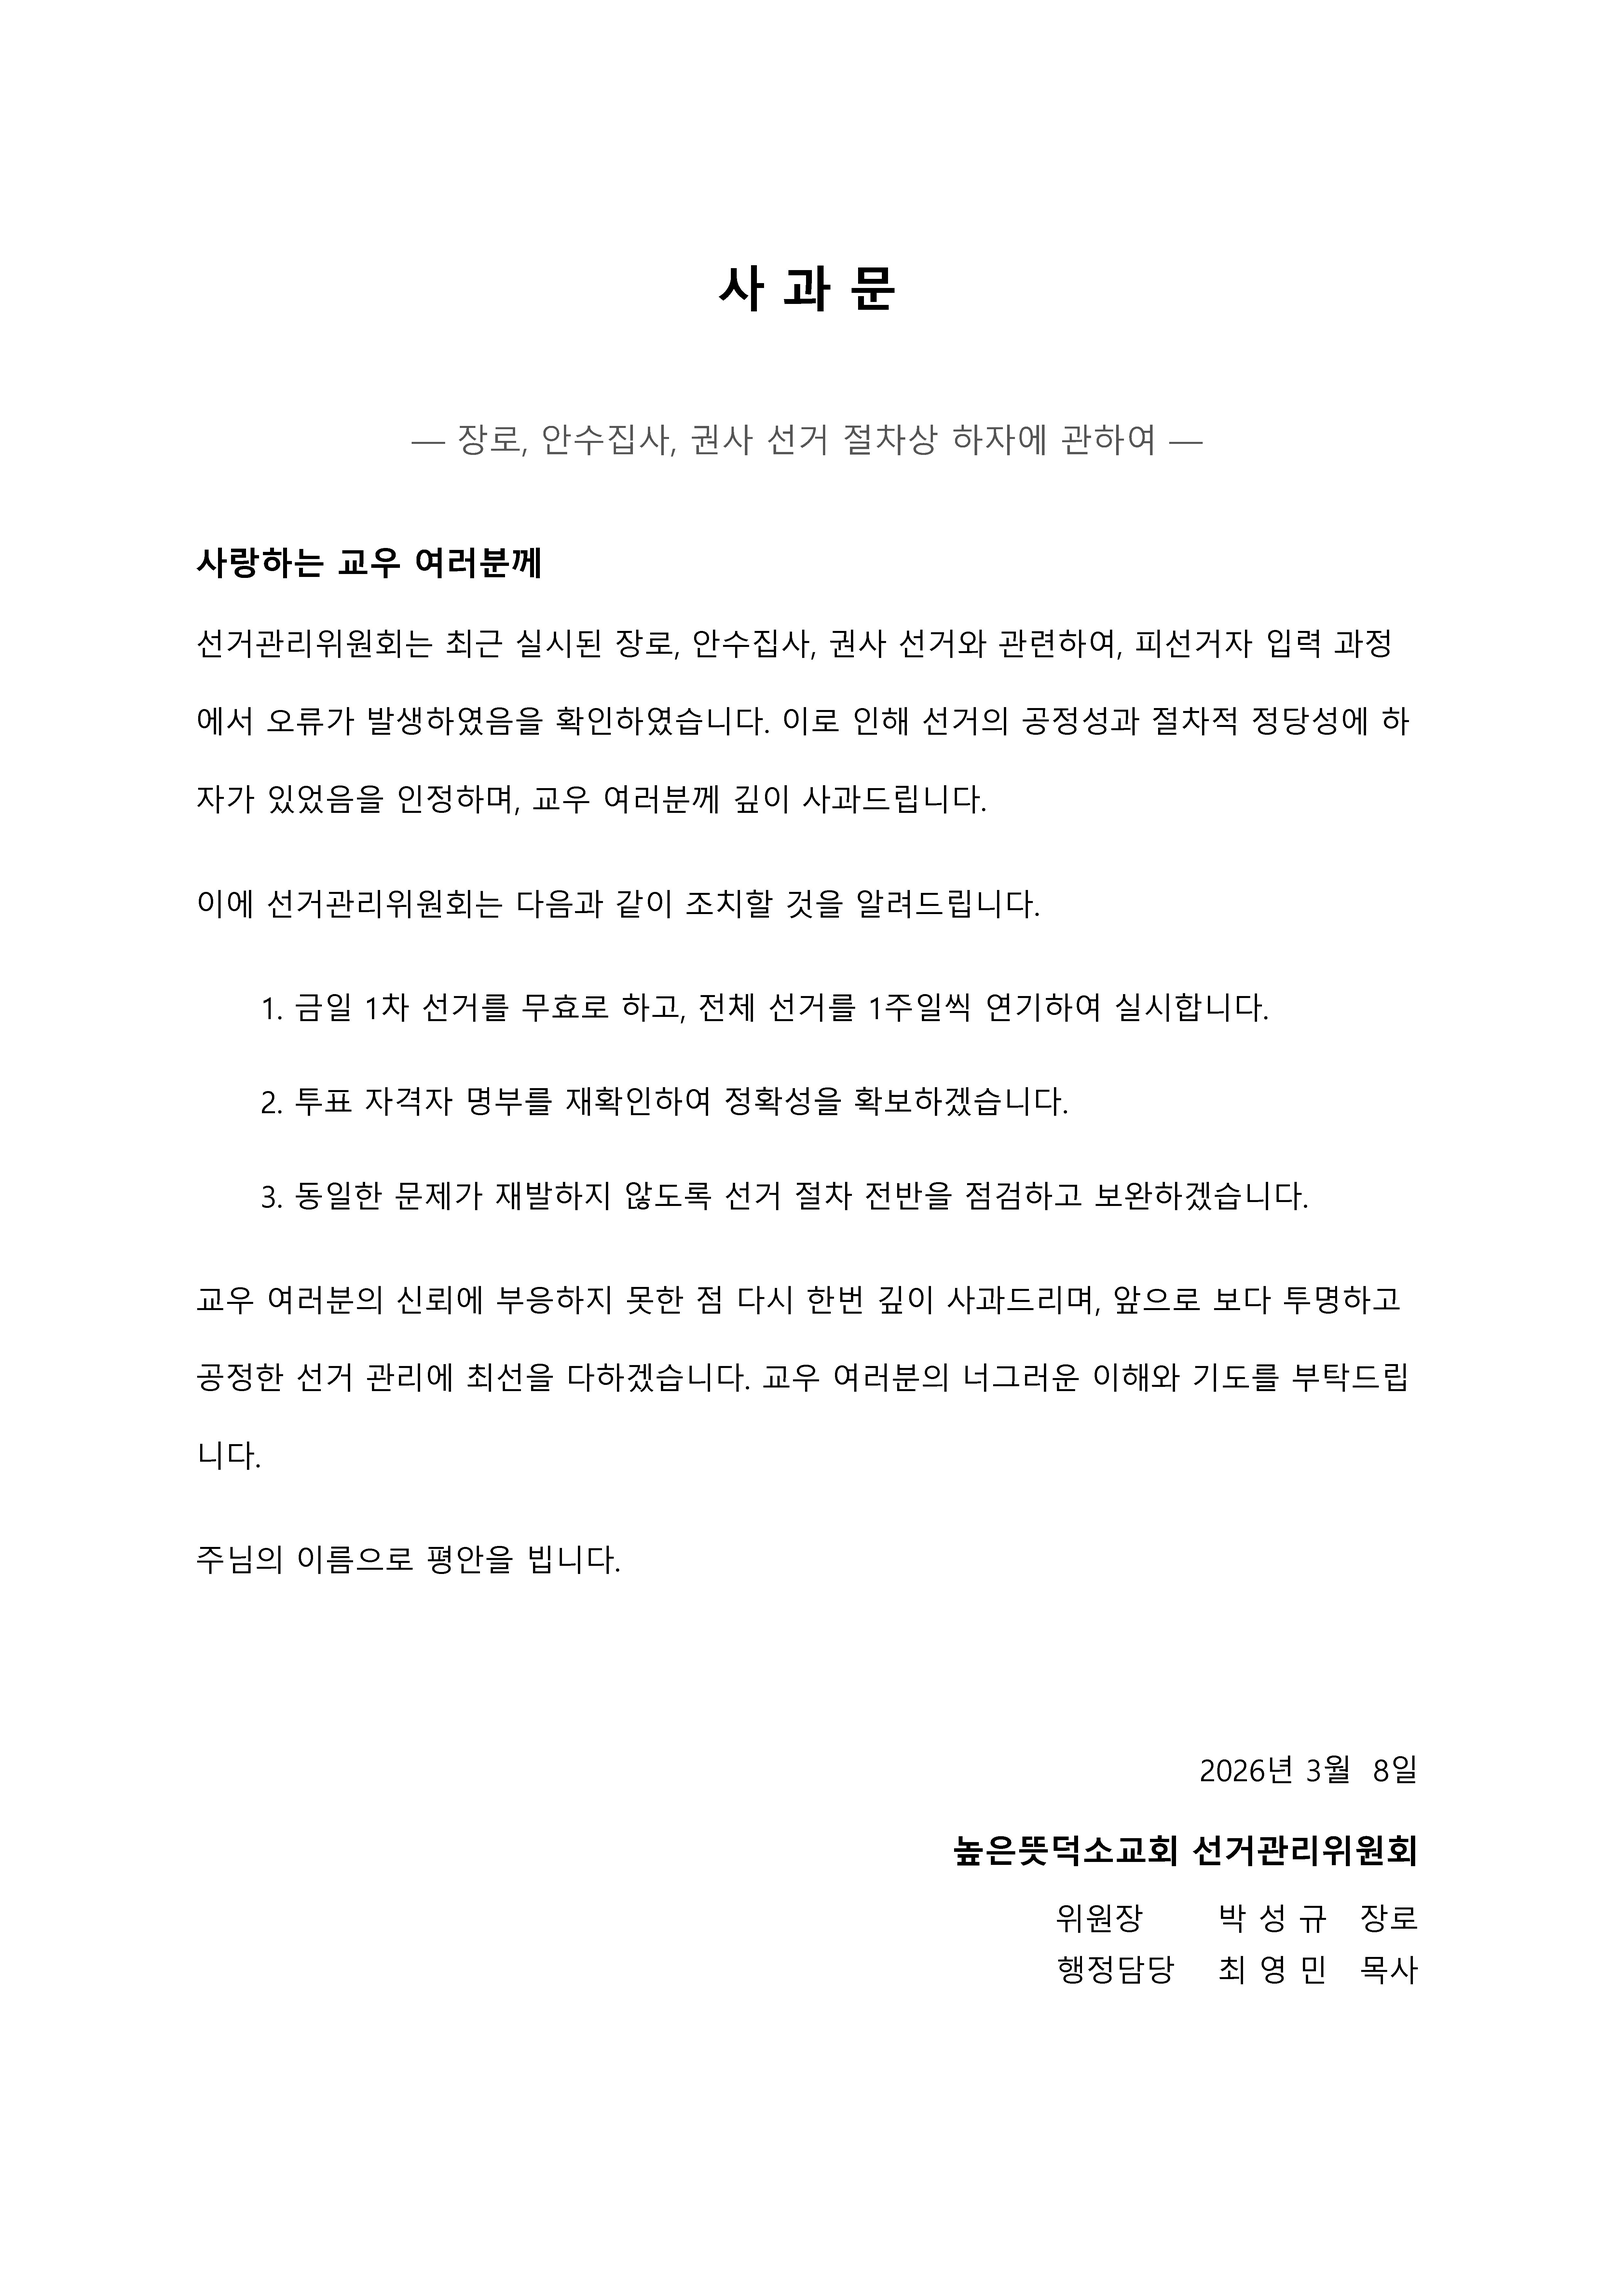
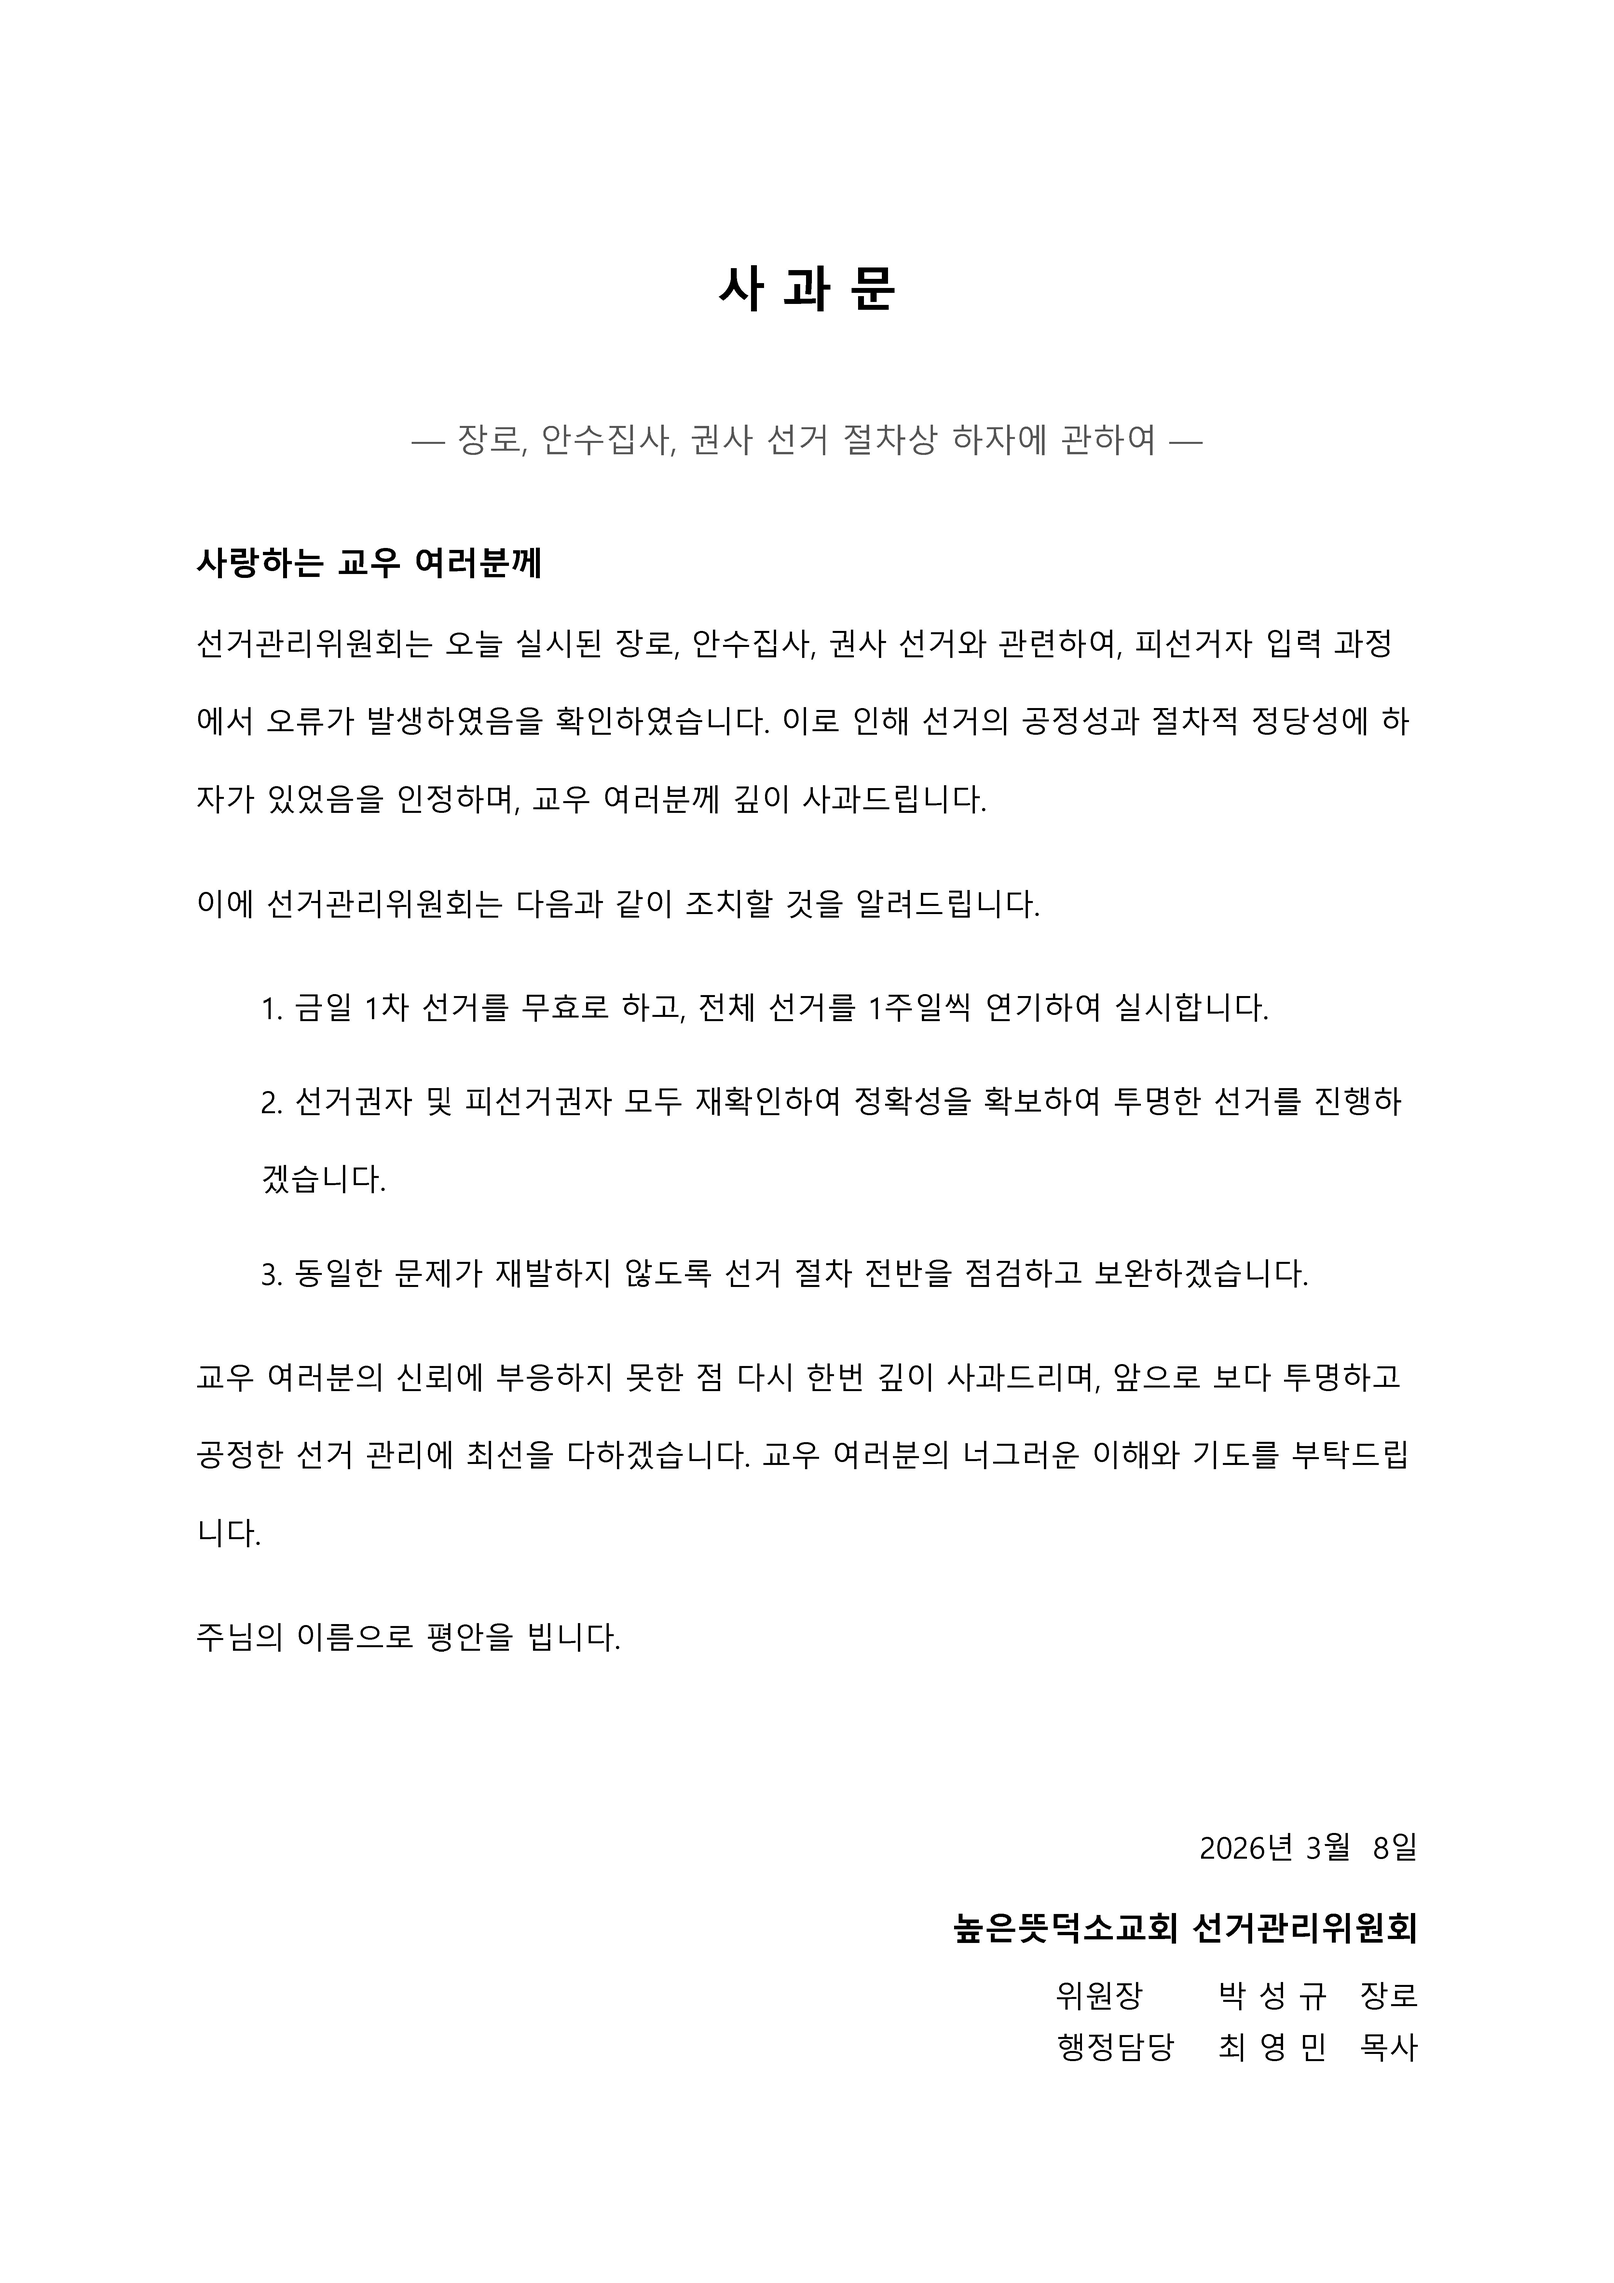
feat: 수정된 사과문 이미지 공지 최신화

diff --git a/todo.md b/todo.md
@@ -8,5 +8,5 @@
 - [V] 40. 수정 성공 알림 및 리스트 동기화 처리 완료
 - [V] 41. 최종 빌드 및 푸시 완료
 - [V] 42. 선거인 정보 관리 시스템 고도화 마무리
-- [V] 43. 메인 접속 페이지 최상단 사과문 이미지 공지 배치 완료
+- [V] 43. 메인 접속 페이지 최상단 사과문 이미지 공지 교체 완료 (수정 버전 반영)
 - [ ] 44. 최종 빌드 및 푸시
